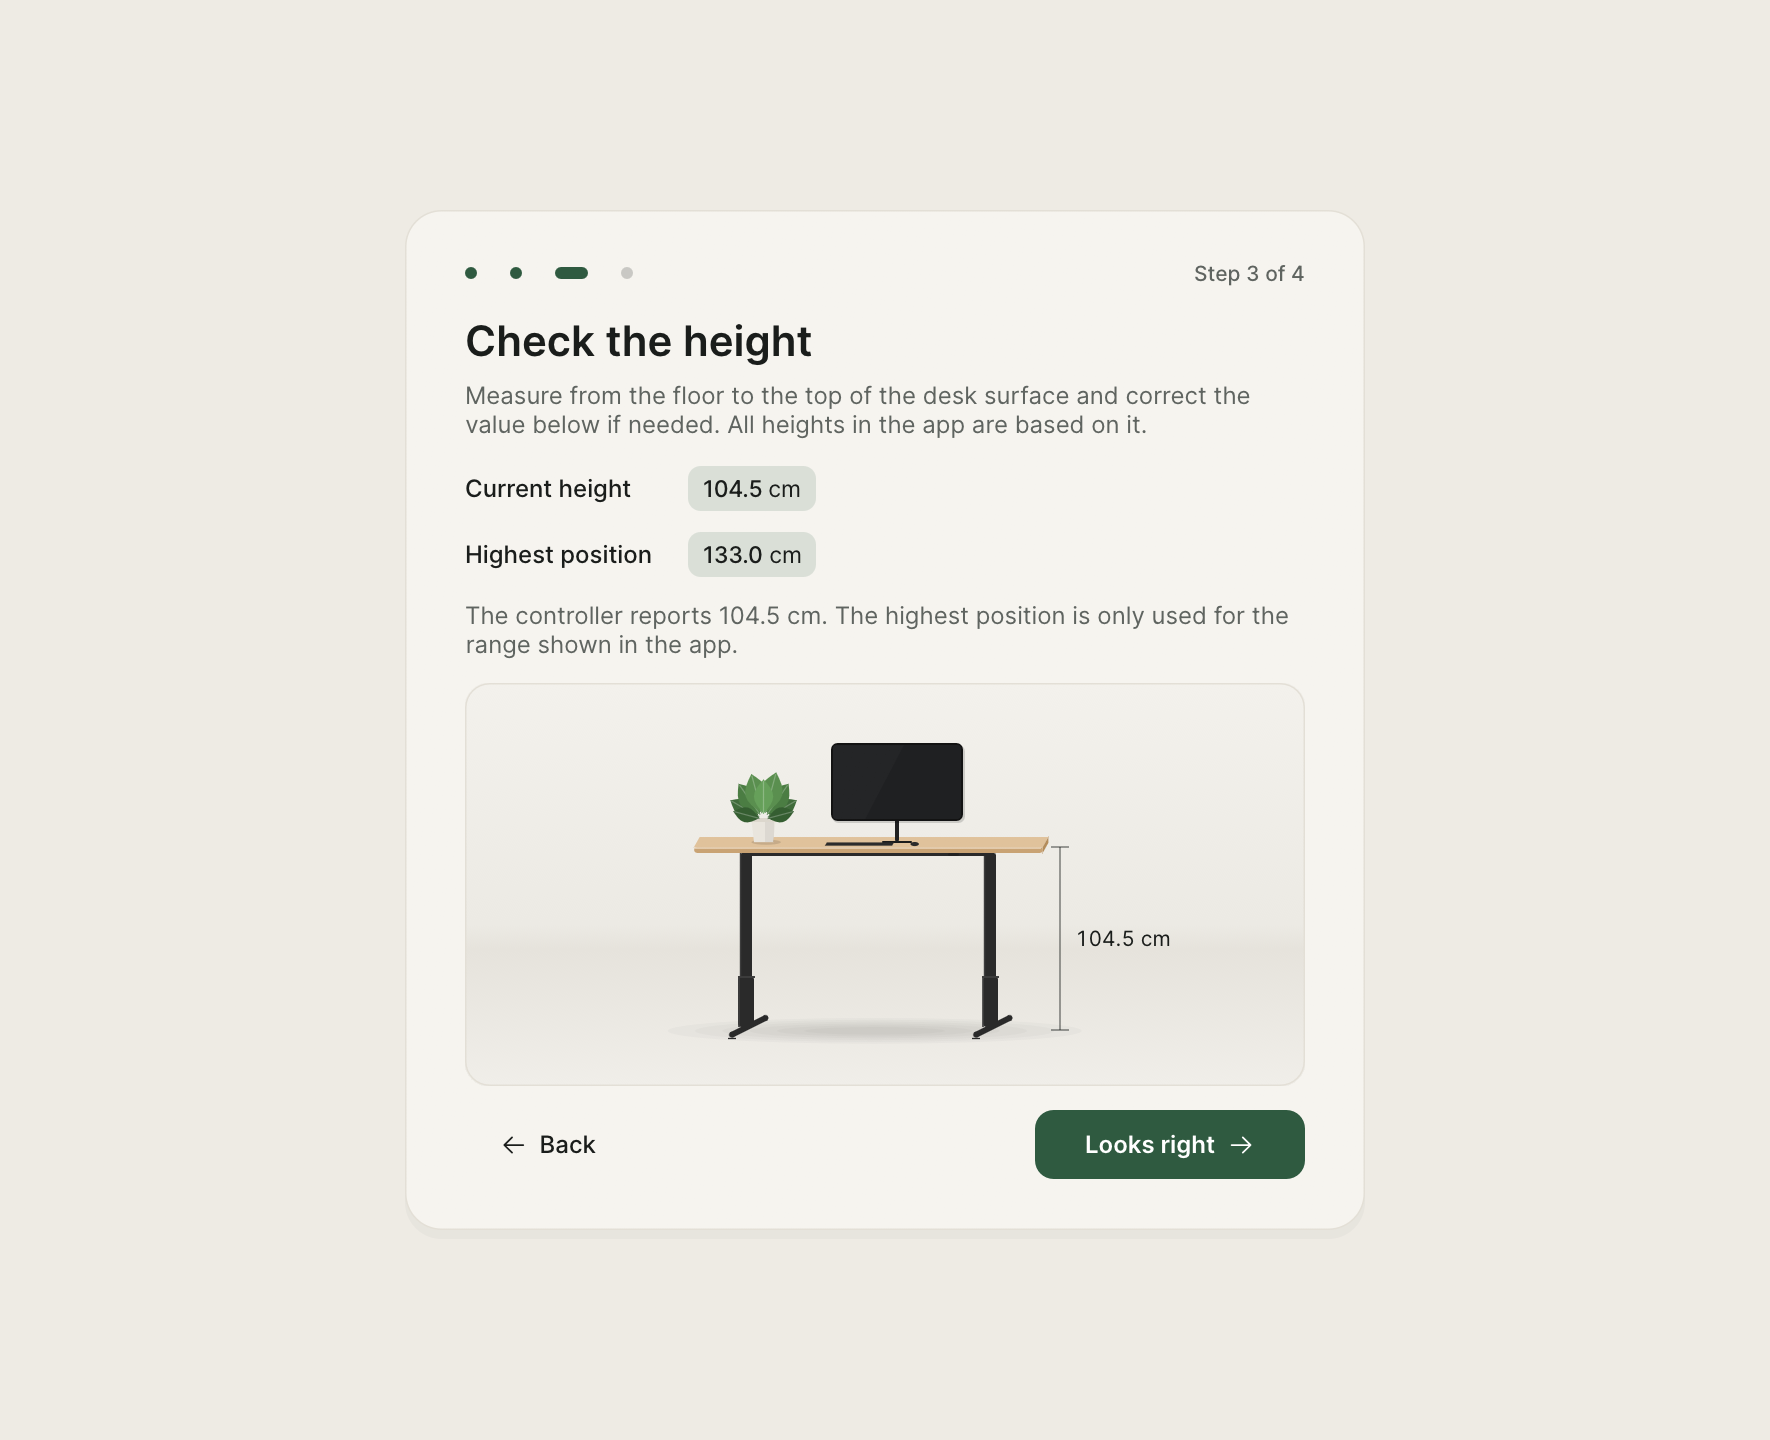
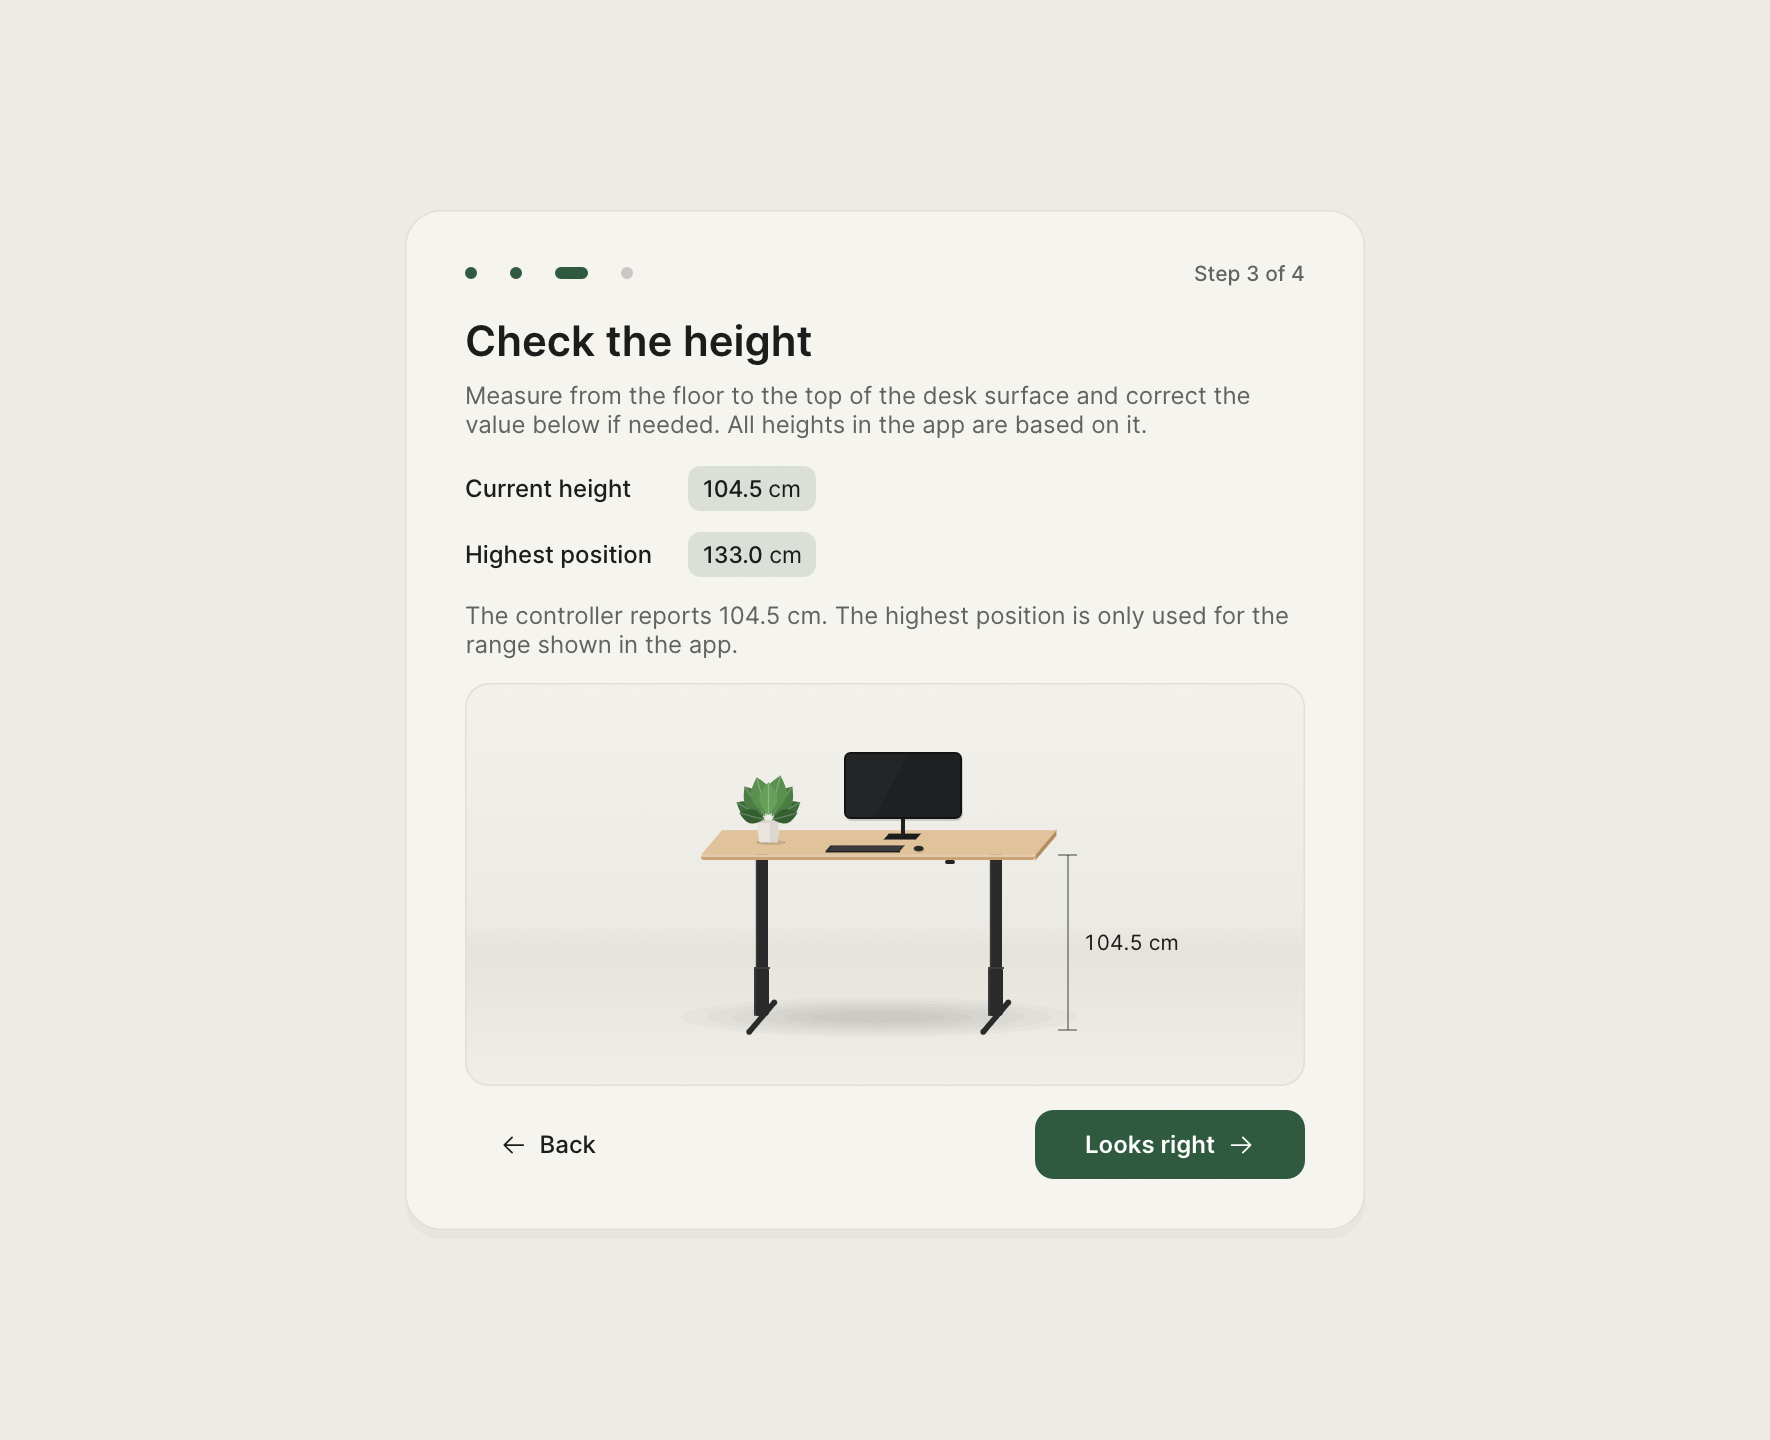
Redraw the desk with consistent perspective
- Tabletop, feet, columns and everything on the desk follow one depth
  direction; the columns stand at mid-depth and the feet run front to
  back underneath.
- Remove the stray pad under the front of each foot.
- Life-size keyboard near the front edge, with room before the monitor.
- Keep the height label clear of the legs by reserving room for it.
- Bump the app to 0.2.1.

Changed region(s): [[0.3729, 0.5, 0.6525, 0.7188]]

diff --git a/app/src/illustration.rs b/app/src/illustration.rs
@@ -24,26 +24,49 @@ pub fn paint(ui: &Ui, rect: Rect, scene: &DeskScene, p: &Palette) {
     let floor_y = rect.bottom() - rect.height() * 0.14;
     let mut cx = rect.left() + rect.width() * scene.center_x;
 
+    let label_format = egui::TextFormat {
+        font_id: font(14.0, Weight::Regular),
+        color: p.text,
+        ..Default::default()
+    };
+    // Width right of the dimension line taken by its label, plus a margin.
+    let label_w = match scene.label {
+        Some(_) => 18.0 + crate::widgets::tabular_width(&painter, "000.0 cm", &label_format),
+        None => 0.0,
+    };
+    // Design units right of the tabletop's front edge: its depth, then the gap
+    // before the dimension line.
+    const RIGHT_UNITS: f32 = 34.0 + 18.0;
+    let units_per_mm = 540.0 / 2000.0;
+
     // Heights are to scale; the desk is drawn wider than life (2 m) to match
-    // the mockup's proportions. The monitor reaches ~52 cm above the top.
-    let px_per_mm =
-        (rect.width() * 0.56 / 2000.0).min((floor_y - rect.top() - 16.0) / (scene.max_mm + 520.0));
-    let dw = 2000.0 * px_per_mm;
-    let u = dw / 540.0; // design unit; the desk is 540 units wide
-    let top_y = floor_y - scene.height_mm * px_per_mm;
+    // the mockup's proportions. The monitor reaches ~60 cm above the front edge.
+    let mut px_per_mm =
+        (rect.width() * 0.56 / 2000.0).min((floor_y - rect.top() - 16.0) / (scene.max_mm + 600.0));
     if let Some(avoid) = scene.avoid {
         // Decide from the highest position, not the current one, so the desk
         // never jumps sideways while the height animates. The plant reaches
-        // ~75 units above the tabletop at the left end.
+        // ~100 units above the front edge at the left end.
         let gap = 24.0;
-        let left_edge = cx - dw / 2.0;
+        let u = px_per_mm / units_per_mm;
         let highest_top = floor_y - scene.max_mm * px_per_mm;
-        if highest_top - 75.0 * u < avoid.bottom() && left_edge < avoid.right() + gap {
-            // Leave room for the dimension label on the right.
-            let max_cx = rect.right() - dw / 2.0 - 110.0 * u;
-            cx = (cx + avoid.right() + gap - left_edge).min(max_cx.max(cx));
+        let clear_x = avoid.right() + gap;
+        if highest_top - 100.0 * u < avoid.bottom() && cx - 1000.0 * px_per_mm < clear_x {
+            // Fit the desk and its dimension label between the text and the
+            // right edge, drawing it smaller if needed.
+            let space = rect.right() - clear_x - label_w;
+            px_per_mm = px_per_mm.min(space / (2000.0 + RIGHT_UNITS / units_per_mm));
+            cx = cx.max(clear_x + 1000.0 * px_per_mm);
         }
     }
+    let dw = 2000.0 * px_per_mm;
+    let u = dw / 540.0; // design unit; the desk is 540 units wide
+    // Keep the dimension label inside the scene.
+    cx = cx.min(rect.right() - label_w - RIGHT_UNITS * u - dw / 2.0);
+    let top_y = floor_y - scene.height_mm * px_per_mm;
+    // Oblique projection: the back of the desk is up and to the right. Every
+    // front-to-back line (tabletop, feet, things on the desk) follows `depth`.
+    let depth = vec2(34.0 * u, -40.0 * u);
 
     let wood_top = hex(0xe0c29b);
     let wood_edge = hex(0xc9a374);
@@ -54,48 +77,55 @@ pub fn paint(ui: &Ui, rect: Rect, scene: &DeskScene, p: &Palette) {
         (hex(0x2a2a2a), hex(0x3d3d3d))
     };
 
-    // Oblique projection: the back of the desk is up and to the right.
-    let depth = vec2(9.0 * u, -16.0 * u);
     let thick = 9.0 * u;
     let left = cx - dw / 2.0;
     let right = cx + dw / 2.0;
+    // A point on the tabletop: `x` along the front edge, `t` from the front (0)
+    // to the back (1).
+    let on_top = |x: f32, t: f32| pos2(x, top_y) + depth * t;
+    // A flat quad on the tabletop.
+    let plate = |x0: f32, x1: f32, t0: f32, t1: f32| {
+        vec![
+            on_top(x0, t0),
+            on_top(x1, t0),
+            on_top(x1, t1),
+            on_top(x0, t1),
+        ]
+    };
 
-    // Floor shadow.
+    // Floor shadow, centered under the middle of the desk's depth.
+    let shadow_c = pos2(cx, floor_y) + depth * 0.5;
     for i in 0..6 {
         let k = 1.0 - i as f32 * 0.14;
         painter.add(Shape::ellipse_filled(
-            pos2(cx + 10.0 * u, floor_y + 2.0 * u),
-            vec2(dw * 0.56 * k + 18.0 * u, 20.0 * u * k),
+            shadow_c,
+            vec2(dw * 0.56 * k + 18.0 * u, -depth.y * 0.8 * k),
             alpha(p.shadow(), 0.22),
         ));
     }
 
-    // Legs and feet.
+    // Legs and feet. The columns stand at mid-depth; the feet run front to
+    // back along `depth`, a little longer than the top is deep.
     let leg_xs = [left + dw * 0.15, right - dw * 0.15];
     let lower_len = 290.0 * px_per_mm;
     for &x in &leg_xs {
-        // Foot: a bar running front-to-back.
-        let a = pos2(x - 22.0 * u, floor_y + 8.0 * u);
-        let b = pos2(x + 30.0 * u, floor_y - 18.0 * u);
-        let w = 9.0 * u;
-        painter.line_segment([a, b], Stroke::new(w, metal));
-        painter.circle_filled(a, w / 2.0, metal);
-        painter.circle_filled(b, w / 2.0, metal);
-        painter.rect_filled(
-            Rect::from_center_size(a + vec2(0.0, w * 0.6), vec2(w * 1.4, 2.0 * u)),
-            1,
-            metal,
-        );
+        let foot_w = 9.0 * u;
+        let a = pos2(x, floor_y) + depth * -0.1;
+        let b = pos2(x, floor_y) + depth * 1.1;
+        painter.line_segment([a, b], Stroke::new(foot_w, metal));
+        painter.circle_filled(a, foot_w / 2.0, metal);
+        painter.circle_filled(b, foot_w / 2.0, metal);
 
         // Telescoping column: wide lower stage, narrower upper stage.
-        let leg_base = floor_y - 4.0 * u;
+        let base = pos2(x, floor_y) + depth * 0.5;
+        let leg_base = base.y - 2.0 * u;
         let lower = Rect::from_min_max(
-            pos2(x - 12.0 * u, leg_base - lower_len),
-            pos2(x + 12.0 * u, leg_base),
+            pos2(base.x - 12.0 * u, leg_base - lower_len),
+            pos2(base.x + 12.0 * u, leg_base),
         );
         let upper = Rect::from_min_max(
-            pos2(x - 9.5 * u, top_y + thick),
-            pos2(x + 9.5 * u, lower.top() + 2.0),
+            pos2(base.x - 9.5 * u, top_y + thick + depth.y * 0.5),
+            pos2(base.x + 9.5 * u, lower.top() + 2.0),
         );
         if upper.height() > 0.0 {
             painter.rect_filled(upper, 1, metal);
@@ -122,12 +152,6 @@ pub fn paint(ui: &Ui, rect: Rect, scene: &DeskScene, p: &Palette) {
         );
     }
 
-    // Frame under the top.
-    let beam = Rect::from_min_max(
-        pos2(leg_xs[0] - 4.0 * u, top_y + thick),
-        pos2(leg_xs[1] + 4.0 * u, top_y + thick + 5.0 * u),
-    );
-    painter.rect_filled(beam, 1, metal);
     // Control panel under the right front edge.
     let panel = Rect::from_min_size(
         pos2(right - dw * 0.27, top_y + thick),
@@ -159,19 +183,23 @@ pub fn paint(ui: &Ui, rect: Rect, scene: &DeskScene, p: &Palette) {
         Stroke::new(1.0, mix(wood_top, Color32::WHITE, 0.35)),
     );
 
-    // Monitor.
-    let mon_c = pos2(cx + 40.0 * u, top_y + depth.y * 0.55);
-    let stand_base =
-        Rect::from_center_size(mon_c + vec2(depth.x * 0.55, 0.0), vec2(46.0 * u, 3.5 * u));
-    painter.rect_filled(stand_base, 2, hex(0x1b1b1b));
+    // Things on the desk, back to front. First the monitor near the back, on
+    // a flat base plate.
+    let mon_x = cx + 30.0 * u;
+    painter.add(Shape::convex_polygon(
+        plate(mon_x - 26.0 * u, mon_x + 26.0 * u, 0.62, 0.86),
+        hex(0x1b1b1b),
+        Stroke::NONE,
+    ));
+    let neck_foot = on_top(mon_x, 0.76);
     let neck = Rect::from_min_max(
-        pos2(stand_base.center().x - 3.0 * u, mon_c.y - 40.0 * u),
-        pos2(stand_base.center().x + 3.0 * u, mon_c.y),
+        pos2(neck_foot.x - 3.5 * u, neck_foot.y - 38.0 * u),
+        pos2(neck_foot.x + 3.5 * u, neck_foot.y),
     );
     painter.rect_filled(neck, 1, hex(0x202020));
     let screen = Rect::from_center_size(
-        pos2(neck.center().x, mon_c.y - 40.0 * u - 52.0 * u),
-        vec2(205.0 * u, 120.0 * u),
+        pos2(neck.center().x, neck.top() - 44.0 * u),
+        vec2(190.0 * u, 108.0 * u),
     );
     painter.rect_filled(
         screen.translate(vec2(2.0 * u, 3.0 * u)),
@@ -192,31 +220,52 @@ pub fn paint(ui: &Ui, rect: Rect, scene: &DeskScene, p: &Palette) {
         Stroke::NONE,
     ));
 
-    // Keyboard and mouse.
-    let kb_y = top_y + depth.y * 0.32;
-    let kb_x = cx - 15.0 * u;
-    let kb = [
-        pos2(kb_x - 52.0 * u, kb_y + 2.5 * u),
-        pos2(kb_x + 52.0 * u, kb_y + 2.5 * u),
-        pos2(kb_x + 55.0 * u, kb_y - 2.5 * u),
-        pos2(kb_x - 49.0 * u, kb_y - 2.5 * u),
-    ];
+    paint_plant(&painter, on_top(left + dw * 0.17, 0.5), u * 1.35);
+
+    // Keyboard (roughly 44 by 14 cm) near the front edge, with a mouse beside it.
+    let kb_x0 = cx - 72.0 * u;
+    let kb_x1 = kb_x0 + 120.0 * u;
+    let (kb_t0, kb_t1) = (0.1, 0.32);
+    let lift = vec2(0.0, -2.5 * u);
     painter.add(Shape::convex_polygon(
-        kb.to_vec(),
-        hex(0x2b2b2b),
+        vec![
+            on_top(kb_x0, kb_t0),
+            on_top(kb_x1, kb_t0),
+            on_top(kb_x1, kb_t0) + lift,
+            on_top(kb_x0, kb_t0) + lift,
+        ],
+        hex(0x1c1c1c),
         Stroke::NONE,
     ));
+    let kb_top = plate(kb_x0, kb_x1, kb_t0, kb_t1)
+        .into_iter()
+        .map(|q| q + lift)
+        .collect();
+    painter.add(Shape::convex_polygon(kb_top, hex(0x2e2e2e), Stroke::NONE));
+    // Rows of keys.
+    let key_stroke = Stroke::new((0.9 * u).max(1.0), hex(0x3d3d3d));
+    for row in 1..5 {
+        let t = kb_t0 + (kb_t1 - kb_t0) * row as f32 / 5.0;
+        let inset = 5.0 * u;
+        painter.line_segment(
+            [
+                on_top(kb_x0 + inset, t) + lift,
+                on_top(kb_x1 - inset, t) + lift,
+            ],
+            key_stroke,
+        );
+    }
+    let mouse = on_top(kb_x1 + 26.0 * u, 0.22);
     painter.add(Shape::ellipse_filled(
-        pos2(cx + 72.0 * u, kb_y),
-        vec2(6.5 * u, 3.2 * u),
+        mouse + vec2(1.0 * u, 1.0 * u),
+        vec2(8.5 * u, 4.5 * u),
+        Color32::from_black_alpha(30),
+    ));
+    painter.add(Shape::ellipse_filled(
+        mouse + lift * 0.6,
+        vec2(8.0 * u, 4.5 * u),
         hex(0x2b2b2b),
     ));
-
-    paint_plant(
-        &painter,
-        pos2(left + dw * 0.2, top_y + depth.y * 0.5),
-        u * 1.35,
-    );
 
     // Dimension line on the right.
     if let Some(label) = &scene.label {
@@ -227,25 +276,10 @@ pub fn paint(ui: &Ui, rect: Rect, scene: &DeskScene, p: &Palette) {
         for y in [top_y, floor_y] {
             painter.line_segment([pos2(x - 6.0, y), pos2(x + 6.0, y)], s);
         }
-        let text_pos = pos2(x + 10.0, (top_y + floor_y) / 2.0);
-        let format = egui::TextFormat {
-            font_id: font(14.0, Weight::Regular),
-            color: p.text,
-            ..Default::default()
-        };
-        let (job, trailing) = crate::widgets::tabular_job(&painter, label, &format);
+        // The desk was placed so the label fits to the right of the line.
+        let (job, _) = crate::widgets::tabular_job(&painter, label, &label_format);
         let galley = painter.layout_job(job);
-        // Put the label inside if a label for the highest position would be
-        // clipped on the right (a fixed decision, so it never flips sides).
-        let widest = crate::widgets::tabular_width(&painter, "000.0 cm", &format);
-        let pos = if text_pos.x + widest > rect.right() - 8.0 {
-            pos2(
-                x - 10.0 - galley.size().x - trailing,
-                text_pos.y - galley.size().y / 2.0,
-            )
-        } else {
-            pos2(text_pos.x, text_pos.y - galley.size().y / 2.0)
-        };
+        let pos = pos2(x + 10.0, (top_y + floor_y - galley.size().y) / 2.0);
         painter.galley(pos, galley, p.text);
     }
 }
